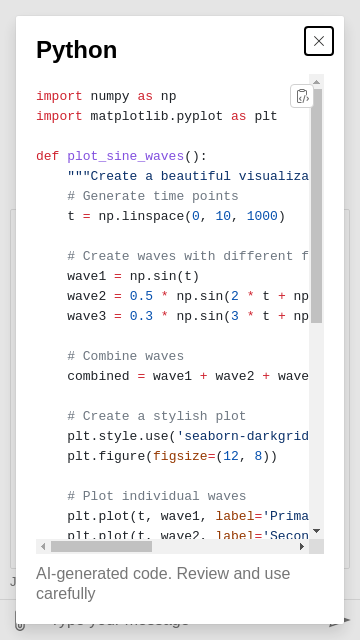
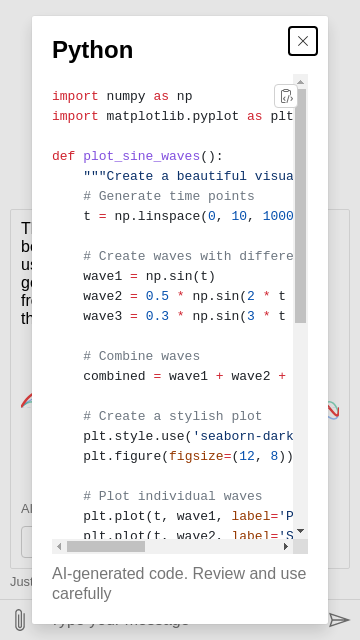
Fix screenshots

diff --git a/packages/component/src/Styles/StyleSet/ModalDialog.ts b/packages/component/src/Styles/StyleSet/ModalDialog.ts
@@ -30,7 +30,7 @@ export default function createModalDialogStyleSet() {
 
         '@media screen and (min-width: 640px)': {
           maxWidth: '60%',
-          minWidth: 'calc(640px - 64px)',
+          minWidth: 'calc(640px - 2em - 6px)', // Browser natively do "100% - 2em - 6px".
           width: '60%'
         },
 
